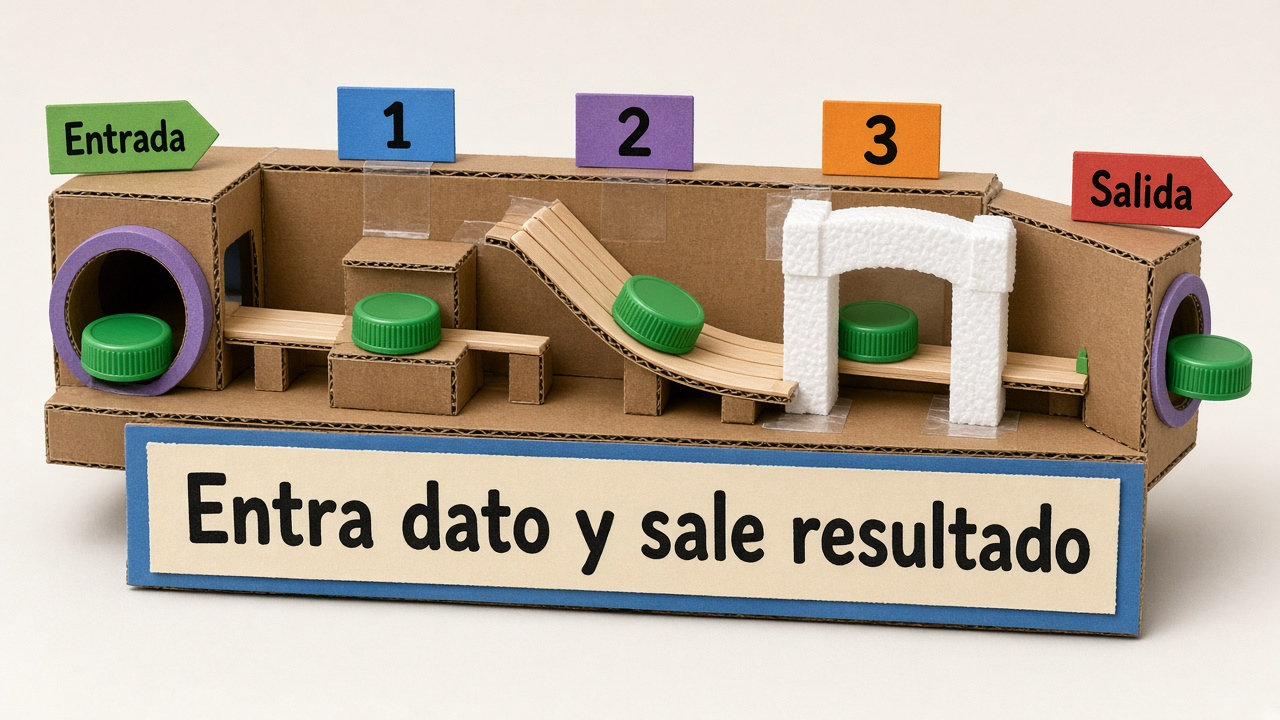
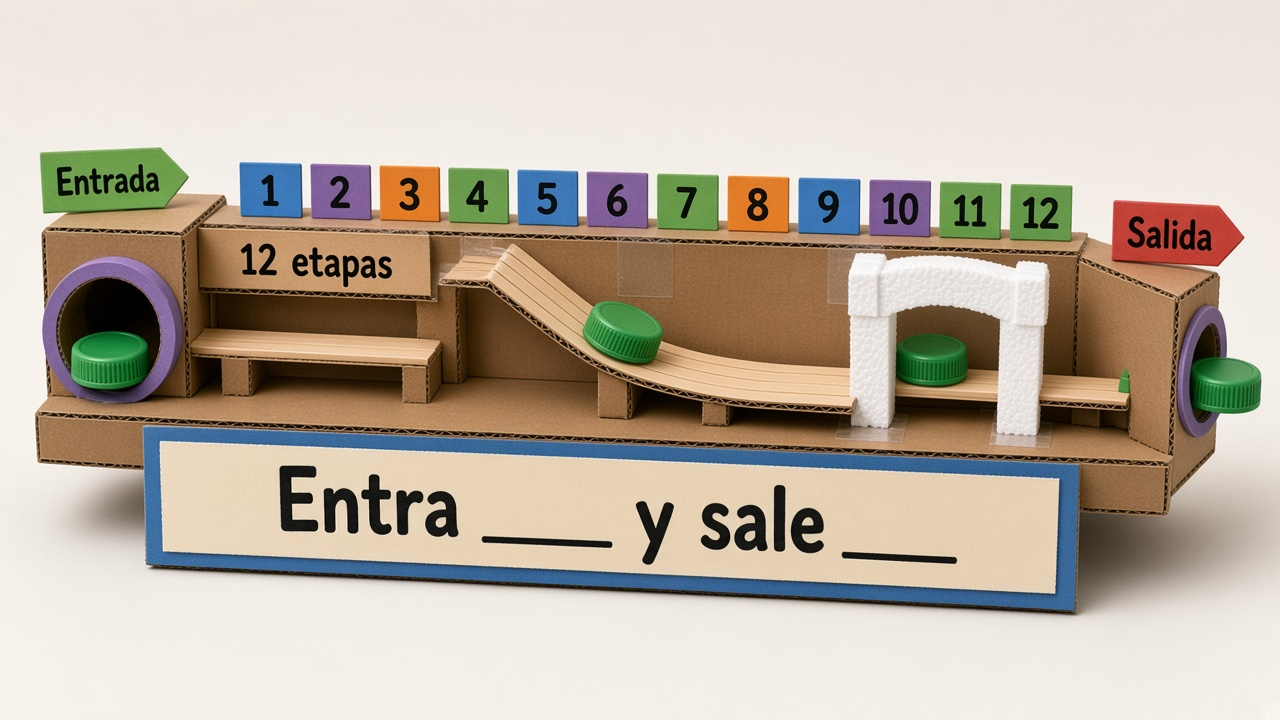
Muestra en La máquina las 12 etapas del proyecto, de la entrada a la salida.

diff --git a/frontend/src/lib/maquinaScrum.ts b/frontend/src/lib/maquinaScrum.ts
@@ -5,24 +5,23 @@ export const MAQUINA_FIRMAS_MAX = 1000;
 export const MAQUINA_ACTIVITY_NAME = "La máquina";
 
 export const MAQUINA_PRODUCTO =
-  "Una máquina de cartón, palos y unicel. La ficha entra arriba, cae, gira, se desvía y sale sola abajo. Al frente va la frase de su programa.";
+  "Una máquina de cartón, palos y unicel. La ficha recorre sola las 12 etapas de su proyecto, de la entrada a la salida. Al frente va la frase de su programa.";
 
 export const MAQUINA_PRODUCTO_NO =
   "No es un cartel ni un pop-up: la ficha recorre el camino de verdad. Si en una corrida oficial alguien la empuja, sopla o la guía, esa corrida no cuenta.";
 
 export const MAQUINA_PRODUCTO_DEBE = [
-  "Base de cartón de al menos 40 cm, medidos de la boca de entrada a la boca de salida. Una hoja tamaño carta mide unos 28 cm: la máquina tiene que ser más larga que eso.",
+  "Base de cartón de al menos 40 cm, de boca a boca. Si las 12 etapas no se leen de lejos, la alargan.",
   "Entrada arriba: un hoyo o embudo con el letrero ENTRADA. Por ahí sueltan la ficha, sin empujarla.",
-  "Estación 1, Cae: una rampa de palo o cartón. La ficha baja. El letrero lleva el nombre real de esa parte de su programa, no «estación 1».",
-  "Estación 2, Gira: una curva de palo o unicel. La ficha da vuelta. El letrero lleva el segundo nombre real del programa.",
-  "Estación 3, Se desvía: un arco o una pared. La ficha cambia de dirección. El letrero lleva el tercer nombre real del programa.",
+  "Doce estaciones, en el orden del proyecto: 1, 2, 3, 4, 5, 6, 7, 8, 9, 10, 11 y 12. En la foto el número es el lugar. En su máquina cada letrero lleva el nombre de esa etapa, el que ya usan.",
+  "La ficha pasa por las 12, sola. En el camino tiene que caer por una rampa, girar en una curva y desviarse en un arco o una pared, como en la foto.",
   "Salida abajo: una boca o charola con el letrero SALIDA. La ficha llega y se detiene sola.",
-  "Al frente, letras grandes que se leen desde el otro lado del salón: «Entra ___ y sale ___». Los huecos son lo que entra y lo que sale en su programa. «Entra dato y sale resultado» de la foto es solo un ejemplo: no lo copien.",
+  "Al frente, letras grandes que se leen desde el otro lado del salón: «Entra ___ y sale ___». Los huecos son lo que entra y lo que sale en su programa.",
   "Misma ficha en todas las pruebas: tapadera, bola de papel bien apretada o canica. Tiene que caber en las dos bocas.",
 ];
 
 export const MAQUINA_MATERIALES = [
-  "Ya en la mesa: hojas de color para los cinco letreros y la frase, pegamento, diurex y tijeras.",
+  "Ya en la mesa: hojas de color para ENTRADA, las 12 etapas, SALIDA y la frase, pegamento, diurex y tijeras.",
   "Al iniciar el reloj pueden salir una sola vez por cartón (base y paredes), palos de madera (rieles y rampa) y unicel (curva y arco).",
   "Una ficha, elegida antes de armar: tapadera, bola de papel bien apretada o canica. Esa misma se usa en las tres pruebas y en las dos corridas oficiales.",
 ];
@@ -31,7 +30,7 @@ export const MAQUINA_ROLES = [
   {
     id: "product_owner",
     label: "Product Owner",
-    tarea: "Escribe los 3 nombres reales del programa, uno por estación, y llena «Entra ___ y sale ___» con lo que entra y lo que sale.",
+    tarea: "Escribe las 12 etapas en el orden del proyecto, con el nombre que ya usan, y llena «Entra ___ y sale ___».",
   },
   {
     id: "scrum_master",
@@ -41,17 +40,17 @@ export const MAQUINA_ROLES = [
   {
     id: "developer",
     label: "Desarrollador",
-    tarea: "Arma la pendiente: entrada arriba, rampa para que caiga, curva para que gire, arco o pared para que se desvíe, y salida abajo.",
+    tarea: "Arma el camino para que la ficha pase sola por las 12 etapas: una rampa, una curva y un arco o pared.",
   },
   {
     id: "ui_designer",
     label: "Diseño / UI",
-    tarea: "Corta ENTRADA, los 3 nombres, SALIDA y la frase. Se leen desde el otro lado del salón.",
+    tarea: "Corta ENTRADA, el nombre de las 12 etapas en orden, SALIDA y la frase. Se leen desde el otro lado del salón.",
   },
   {
     id: "qa_docs",
     label: "QA / Docs",
-    tarea: "Elige la ficha y comprueba que cabe. Hace las tres pruebas y las dos corridas. Anota si llegó sola y si el otro equipo dijo qué entra y qué sale.",
+    tarea: "Elige la ficha y comprueba que cabe. Revisa que estén las 12 etapas, en orden y con su nombre. Hace las tres pruebas y las dos corridas.",
   },
 ] as const;
 
@@ -62,7 +61,7 @@ export const MAQUINA_SPRINTS = [
     desde: 0,
     hasta: 8,
     detalle:
-      "Escriben los 3 nombres reales y completan «Entra ___ y sale ___». Dibujan el camino: entrada arriba, cae, gira, se desvía, salida abajo. Eligen la ficha y comprueban que cabe en las dos bocas.",
+      "Escriben las 12 etapas en orden, con el nombre del proyecto, y completan «Entra ___ y sale ___». Dibujan dónde va cada letrero. Eligen la ficha y comprueban que cabe en las dos bocas.",
   },
   {
     id: "obra",
@@ -70,7 +69,7 @@ export const MAQUINA_SPRINTS = [
     desde: 8,
     hasta: 30,
     detalle:
-      "Salen una vez por cartón, palos y unicel. Arman la base de al menos 40 cm con pendiente. Pegan ENTRADA, los 3 nombres, SALIDA y la frase grande al frente.",
+      "Salen una vez por cartón, palos y unicel. Arman la base, de al menos 40 cm, con pendiente. Pegan ENTRADA, las 12 etapas, SALIDA y la frase grande al frente.",
   },
   {
     id: "prueba",
@@ -78,7 +77,7 @@ export const MAQUINA_SPRINTS = [
     desde: 30,
     hasta: 42,
     detalle:
-      "Sueltan la ficha tres veces desde ENTRADA, sin tocarla. Si se atora, suben la pendiente, abren la boca o alisan la curva. No cambian los nombres del programa.",
+      "Sueltan la ficha tres veces desde ENTRADA, sin tocarla, y tiene que pasar por las 12 etapas. Si se atora, corrigen la pendiente. No cambian los nombres.",
   },
   {
     id: "oficial",
@@ -86,13 +85,13 @@ export const MAQUINA_SPRINTS = [
     desde: 42,
     hasta: 50,
     detalle:
-      "Silencio. Dos corridas frente a otro equipo: sueltan la ficha y nadie la toca. Si la empujan, esa corrida no cuenta. El otro equipo dice en una frase qué entra y qué sale. A los 50, manos arriba.",
+      "Silencio. Dos corridas frente a otro equipo: sueltan la ficha y nadie la toca. Si la empujan, esa corrida no cuenta. El otro equipo dice qué entra, qué sale y si vio las 12 etapas en orden. A los 50, manos arriba.",
   },
 ] as const;
 
 export const MAQUINA_PASOS = [
   "Son los equipos de Roles / Equipos. No se arman equipos nuevos.",
-  "El camino es fijo: ENTRADA arriba, Cae, Gira, Se desvía y SALIDA abajo. Cada estación lleva además el nombre real de su programa.",
+  "El camino es ENTRADA, las 12 etapas del proyecto en orden y SALIDA. El número de la foto es el lugar; el letrero lleva el nombre de esa etapa.",
   "El docente libera la actividad e inicia los 50 minutos de todo el grupo.",
   "Al sonar el inicio salen una sola vez por cartón, palos de madera y unicel. Hojas, pegamento, diurex y tijeras ya están en la mesa.",
   "Miden 40 cm o más de boca a boca antes de las corridas oficiales.",
@@ -108,7 +107,7 @@ export type MaquinaNotePreset = {
 };
 
 export const MAQUINA_NOTAS: MaquinaNotePreset[] = [
-  { code: "estaciones", label: "Estaciones o frase no sirven", points: 250 },
+  { code: "estaciones", label: "Faltan etapas o la frase no sirve", points: 250 },
   { code: "sola", label: "La ficha no viaja sola", points: 250 },
   { code: "salida", label: "No llega en las dos corridas", points: 250 },
   { code: "explica", label: "El otro equipo no lo explica", points: 250 },

diff --git a/frontend/src/components/MaquinaIllustration.tsx b/frontend/src/components/MaquinaIllustration.tsx
@@ -3,15 +3,15 @@ const EJEMPLOS = [
     src: "/maquina/como-queda.jpg",
     title: "Así debe quedar",
     caption:
-      "Entrada arriba, luego cae, gira y se desvía, y salida abajo. La frase de la foto es un ejemplo: escriban lo que entra y lo que sale en su programa.",
-    alt: "Máquina de cartón con entrada, tres estaciones numeradas, salida y el letrero Entra dato y sale resultado",
+      "Entrada, las etapas 1 a 12 en orden y salida. En su máquina cada número lleva el nombre de esa etapa del proyecto.",
+    alt: "Máquina de cartón con entrada, doce etapas numeradas del 1 al 12 y salida",
   },
   {
     src: "/maquina/recorrido.jpg",
     title: "Así viaja la ficha",
     caption:
-      "Las flechas marcan que baja sola. En su máquina, Cae, Gira y Se desvía llevan también el nombre real de esa parte del programa.",
-    alt: "Recorrido de la ficha por las estaciones Entrada, Cae, Gira, Se desvía y Salida",
+      "Las flechas marcan que pasa sola por las 12 etapas. Los huecos de la frase los llena su programa.",
+    alt: "Recorrido de la ficha desde la entrada, por las etapas 1 a 12, hasta la salida",
   },
 ] as const;
 

diff --git a/frontend/src/components/TeacherScrumActivitiesPanel.tsx b/frontend/src/components/TeacherScrumActivitiesPanel.tsx
@@ -124,7 +124,7 @@ export default function TeacherScrumActivitiesPanel({
             <h2 className="text-lg font-bold text-white">Actividades — Scrum</h2>
             <p className="mt-1 text-sm text-slate-400">
               La máquina: equipos de Roles / Equipos, 50 minutos. Construyen una máquina de su programa.
-              La ficha recorre sola 3 estaciones. 1000 Firmas. Pop-Up ya no se muestra a los alumnos.
+              La ficha recorre sola las 12 etapas del proyecto. 1000 Firmas. Pop-Up ya no se muestra a los alumnos.
             </p>
           </section>
 
@@ -138,7 +138,7 @@ export default function TeacherScrumActivitiesPanel({
               <h3 className="mt-1 text-xl font-bold text-white">{MAQUINA_TITULO}</h3>
               <p className="mt-1 text-sm text-slate-400">
                 Equipos de Roles / Equipos. 50 minutos. Construyen una máquina de por lo menos 40 cm. La
-                ficha entra, pasa por 3 estaciones de su programa y sale sola. 1000 Firmas.
+                ficha entra, pasa por las 12 etapas del proyecto y sale sola. 1000 Firmas.
               </p>
             </div>
             <span

diff --git a/frontend/src/lib/maquinaLive.ts b/frontend/src/lib/maquinaLive.ts
@@ -58,13 +58,13 @@ export function parseMaquinaState(body: string): MaquinaLiveState | null {
 
 function visibleCopy(state: MaquinaLiveState) {
   if (state.startedAt && !state.pausedAt) {
-    return "El reloj de La máquina ya inició. Salgan una vez por cartón, palos y unicel. La ficha entra arriba, cae, gira, se desvía y sale sola.";
+    return "El reloj de La máquina ya inició. Salgan una vez por cartón, palos y unicel. La ficha recorre sola las 12 etapas del proyecto.";
   }
   if (state.pausedAt) {
     return "El docente pausó el reloj de La máquina. Esperen a que lo reanude.";
   }
   if (state.released) {
-    return "La máquina está liberada. Esperen los 50 minutos. Entrada arriba, tres estaciones (cae, gira y se desvía) con el nombre de su programa, y salida abajo.";
+    return "La máquina está liberada. Esperen los 50 minutos. La ficha entra, pasa por las 12 etapas del proyecto y sale sola.";
   }
   return "La máquina está en preparación para este grupo.";
 }

diff --git a/frontend/vite.config.ts b/frontend/vite.config.ts
@@ -10,7 +10,7 @@ export default defineConfig({
     VitePWA({
       registerType: "autoUpdate",
       workbox: {
-        cacheId: "simeval-20261104-interfaces-fecha",
+        cacheId: "simeval-20261104-maquina-12",
         skipWaiting: true,
         clientsClaim: true,
         cleanupOutdatedCaches: true,
